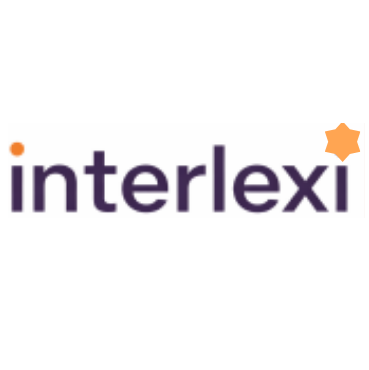
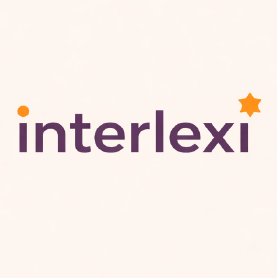
cambia color de fondo de navbar

Changed region(s): [[0.0289, 0.3165, 0.9819, 0.5755]]

diff --git a/competencia-desleal.html b/competencia-desleal.html
@@ -20,7 +20,7 @@
     <link rel="preconnect" href="https://fonts.googleapis.com">
     <link rel="preconnect" href="https://fonts.gstatic.com" crossorigin>
     <link href="https://fonts.googleapis.com/css2?family=Roboto:wght@100;300;400;500;700&display=swap" rel="stylesheet">
-    <title>LAW-IP</title>
+    <title>Interlexi</title>
 </head>
 <body>
 

diff --git a/constituye-tu-empresa.html b/constituye-tu-empresa.html
@@ -20,7 +20,7 @@
     <link rel="preconnect" href="https://fonts.googleapis.com">
     <link rel="preconnect" href="https://fonts.gstatic.com" crossorigin>
     <link href="https://fonts.googleapis.com/css2?family=Roboto:wght@100;300;400;500;700&display=swap" rel="stylesheet">
-    <title>LAW-IP</title>
+    <title>Interlexi</title>
 </head>
 <body>
 

diff --git a/datos-personales.html b/datos-personales.html
@@ -20,7 +20,7 @@
     <link rel="preconnect" href="https://fonts.googleapis.com">
     <link rel="preconnect" href="https://fonts.gstatic.com" crossorigin>
     <link href="https://fonts.googleapis.com/css2?family=Roboto:wght@100;300;400;500;700&display=swap" rel="stylesheet">
-    <title>LAW-IP</title>
+    <title>Interlexi</title>
 </head>
 <body>
 

diff --git a/derecho-consumidor.html b/derecho-consumidor.html
@@ -20,7 +20,7 @@
     <link rel="preconnect" href="https://fonts.googleapis.com">
     <link rel="preconnect" href="https://fonts.gstatic.com" crossorigin>
     <link href="https://fonts.googleapis.com/css2?family=Roboto:wght@100;300;400;500;700&display=swap" rel="stylesheet">
-    <title>LAW-IP</title>
+    <title>Interlexi</title>
 </head>
 <body>
 

diff --git a/index.html b/index.html
@@ -20,7 +20,7 @@
     <link rel="preconnect" href="https://fonts.googleapis.com">
     <link rel="preconnect" href="https://fonts.gstatic.com" crossorigin>
     <link href="https://fonts.googleapis.com/css2?family=Roboto:wght@100;300;400;500;700&display=swap" rel="stylesheet">
-    <title>LAW-IP</title>
+    <title>Interlexi</title>
 </head>
 <body>
 

diff --git a/nosotros.html b/nosotros.html
@@ -20,7 +20,7 @@
     <link rel="preconnect" href="https://fonts.googleapis.com">
     <link rel="preconnect" href="https://fonts.gstatic.com" crossorigin>
     <link href="https://fonts.googleapis.com/css2?family=Roboto:wght@100;300;400;500;700&display=swap" rel="stylesheet">
-    <title>LAW-IP</title>
+    <title>Interlexi</title>
 </head>
 <body>
 

diff --git a/patentes.html b/patentes.html
@@ -20,7 +20,7 @@
     <link rel="preconnect" href="https://fonts.googleapis.com">
     <link rel="preconnect" href="https://fonts.gstatic.com" crossorigin>
     <link href="https://fonts.googleapis.com/css2?family=Roboto:wght@100;300;400;500;700&display=swap" rel="stylesheet">
-    <title>LAW-IP</title>
+    <title>Interlexi</title>
 </head>
 <body>
 

diff --git a/style.css b/style.css
@@ -31,6 +31,7 @@ p, .footer a{
 
 .navbar {
     font-family:'BebasNeue';
+    background-color: #fef5f0 !important;
 
 }
 h1,h2,h3,h4,h5 {
